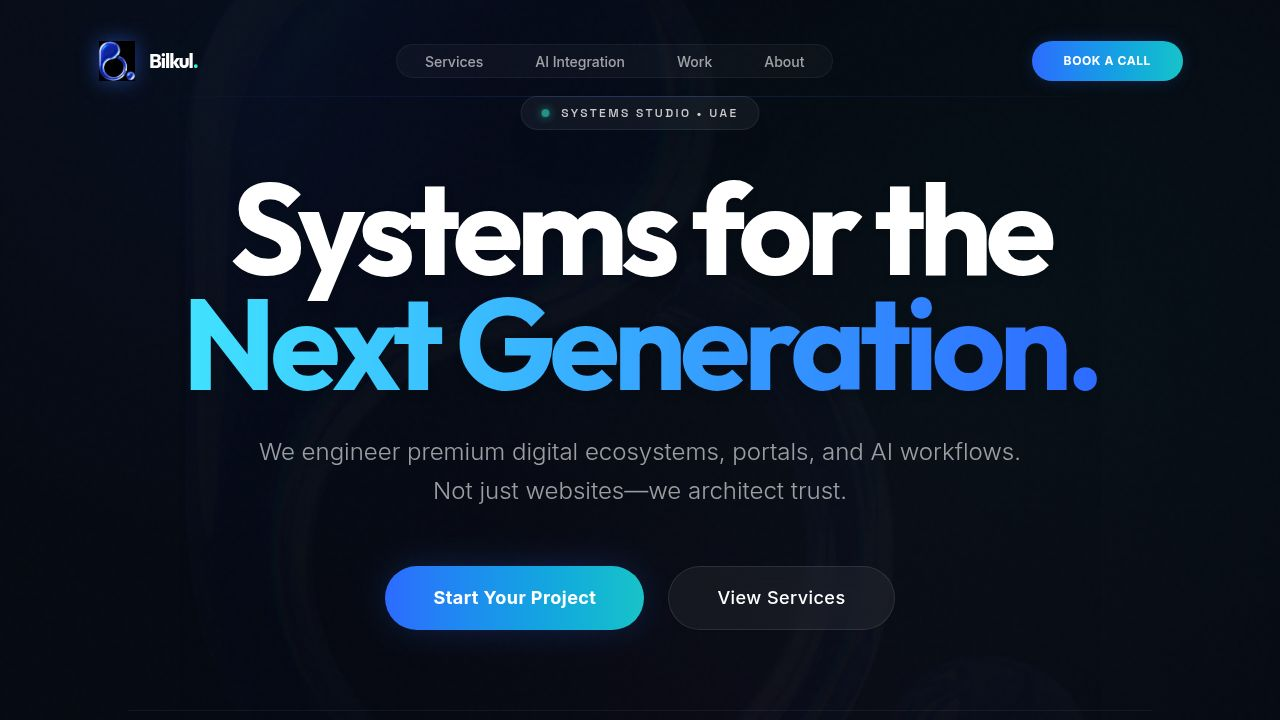
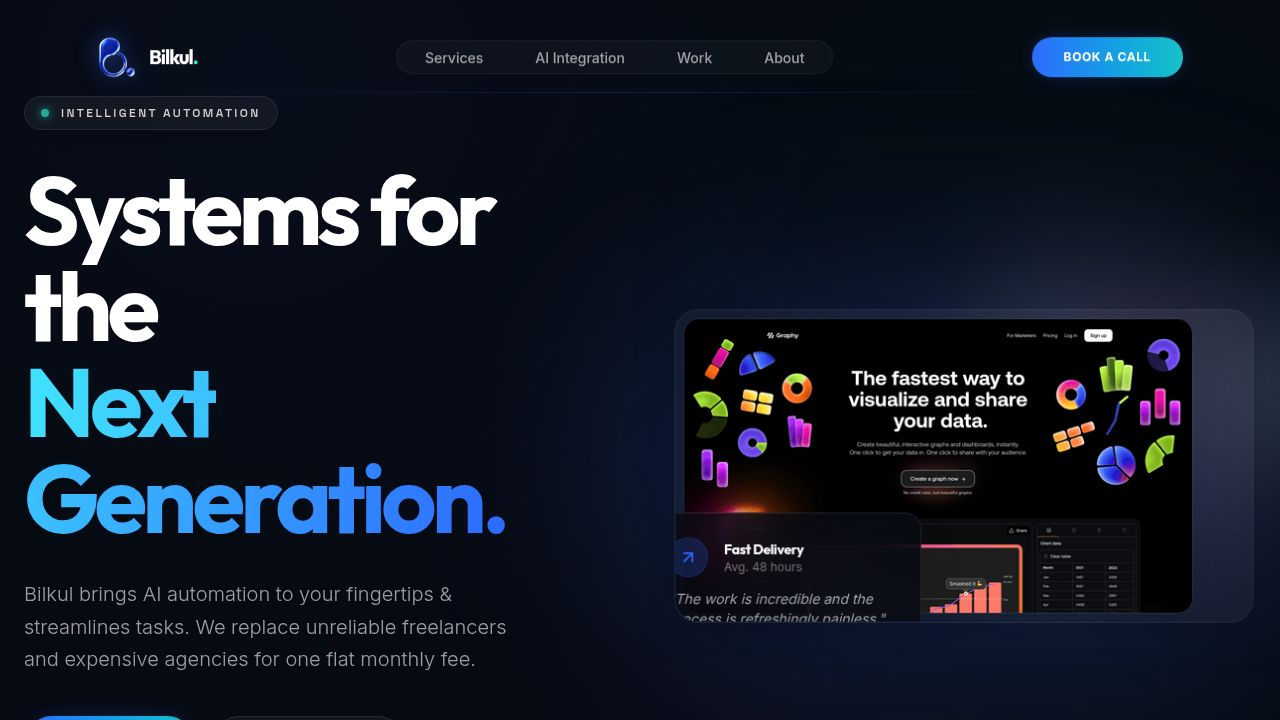
Update website visuals and featured work with new assets
Integrate new visual assets from Framer, update hero section layout and content, and replace existing project images and details in the FeaturedWork component with new data, including local asset paths.

Replit-Commit-Author: Agent
Replit-Commit-Session-Id: c90beb8e-27fe-4767-9850-a092bd4916d9
Replit-Commit-Checkpoint-Type: full_checkpoint
Replit-Commit-Event-Id: 063b1f93-e79b-4f8b-845e-0c70df3c6730
Replit-Commit-Screenshot-Url: https://storage.googleapis.com/screenshot-production-us-central1/81a523f9-af39-43ec-862f-cd784d61e943/c90beb8e-27fe-4767-9850-a092bd4916d9/UAPplSo
Replit-Helium-Checkpoint-Created: true

diff --git a/client/src/components/sections/Hero.tsx b/client/src/components/sections/Hero.tsx
@@ -1,82 +1,81 @@
-import { MotionButton } from "@/components/ui/motion-button";
 import { Link } from "wouter";
-import { motion } from "framer-motion";
-import { Spotlight } from "@/components/ui/spotlight";
-import { BackgroundBeams } from "@/components/ui/background-beams";
-import { ArrowRight, ShieldCheck, Zap, BarChart } from "lucide-react";
-import { transitions } from "@/lib/motion";
+import { GlassCard } from "@/components/ui/glass-card";
+import { MotionButton } from "@/components/ui/motion-button";
+import { ArrowRight } from "lucide-react";
 
 export function Hero() {
   return (
-    <section className="relative min-h-[95vh] flex items-center justify-center pt-24 overflow-hidden">
+    <section className="relative min-h-[90vh] flex items-center justify-center pt-24 overflow-hidden">
       {/* Aurora Gradient Background */}
-      <div className="absolute inset-0 aurora-bg opacity-40 pointer-events-none" />
+      <div className="absolute inset-0 aurora-bg opacity-30 pointer-events-none" />
       
       {/* Texture Overlay */}
-      <div className="absolute inset-0 z-0 opacity-30 pointer-events-none noise-bg mix-blend-overlay" />
-      <div className="absolute inset-0 grid-bg opacity-10 pointer-events-none mask-gradient-b" />
+      <div className="absolute inset-0 z-0 opacity-20 pointer-events-none noise-bg mix-blend-overlay" />
       
-      <BackgroundBeams className="opacity-40" />
-      
-      {/* Watermark Logo (Very subtle) */}
-      <div className="absolute top-1/2 left-1/2 -translate-x-1/2 -translate-y-1/2 w-[80vw] h-[80vw] opacity-[0.02] pointer-events-none z-0">
-         <img src="/brand/logo.png" className="w-full h-full object-contain" alt="" />
+      {/* Abstract 3D Element from Framer */}
+      <div className="absolute right-[-10%] top-[20%] w-[50%] h-[50%] opacity-40 pointer-events-none blur-3xl animate-pulse-slow">
+         <img src="/assets/framer/abstract-1.png" className="w-full h-full object-contain" alt="" />
       </div>
 
-      <div className="container mx-auto px-6 relative z-20 text-center">
-        <div className="max-w-5xl mx-auto">
-          <motion.div
-            initial="initial"
-            animate="animate"
-            variants={transitions.page}
-          >
-            <motion.div 
-              initial={{ opacity: 0, scale: 0.9 }}
-              animate={{ opacity: 1, scale: 1 }}
-              transition={{ duration: 1, ease: "easeOut" }}
-              className="inline-flex items-center gap-3 px-5 py-2 rounded-full bg-white/[0.05] border border-white/[0.08] text-sm font-medium text-white/80 mb-10 backdrop-blur-md shadow-2xl hover:bg-white/[0.08] transition-colors"
-            >
-              <span className="w-2 h-2 rounded-full bg-[var(--aquamarine)] animate-pulse shadow-[0_0_10px_var(--aquamarine)]" />
-              <span className="text-xs uppercase tracking-[0.2em] font-mono">Systems Studio • UAE</span>
-            </motion.div>
-            
-            <h1 className="text-6xl md:text-7xl lg:text-9xl font-display font-bold tracking-tighter leading-[0.9] mb-8 text-white drop-shadow-lg">
-              Systems for the <br />
-              <span className="text-gradient-primary">Next Generation.</span>
-            </h1>
-            
-            <p className="text-xl md:text-2xl text-white/60 max-w-3xl mx-auto mb-14 leading-relaxed font-light">
-              We engineer premium digital ecosystems, portals, and AI workflows. 
-              <br className="hidden md:block"/> Not just websites—we architect trust.
-            </p>
-            
-            <div className="flex flex-col sm:flex-row gap-6 justify-center items-center mb-20">
-              <Link href="/contact">
-                <MotionButton size="lg" className="h-16 px-12 text-lg rounded-full font-bold shadow-[0_0_40px_-10px_rgba(45,107,255,0.4)]">
-                  Start Your Project
-                </MotionButton>
-              </Link>
-              <Link href="/services">
-                <MotionButton variant="outline" size="lg" className="h-16 px-12 text-lg rounded-full border-white/10 hover:bg-white/5 backdrop-blur-md font-medium text-white">
-                  View Services
-                </MotionButton>
-              </Link>
+      <div className="container mx-auto px-6 relative z-20">
+        <div className="grid lg:grid-cols-2 gap-16 items-center">
+            <div className="text-left">
+                <div 
+                className="inline-flex items-center gap-3 px-4 py-2 rounded-full bg-white/[0.05] border border-white/[0.08] text-sm font-medium text-white/80 mb-8 backdrop-blur-md shadow-lg"
+                >
+                <span className="w-2 h-2 rounded-full bg-[var(--aquamarine)] animate-pulse shadow-[0_0_10px_var(--aquamarine)]" />
+                <span className="text-xs uppercase tracking-[0.2em] font-mono">Intelligent Automation</span>
+                </div>
+                
+                <h1 className="text-5xl md:text-7xl lg:text-8xl font-display font-bold tracking-tighter leading-[1] mb-8 text-white">
+                Systems for the <br />
+                <span className="text-gradient-primary">Next Generation.</span>
+                </h1>
+                
+                <p className="text-xl text-white/60 max-w-lg mb-10 leading-relaxed font-light">
+                Bilkul brings AI automation to your fingertips & streamlines tasks. We replace unreliable freelancers and expensive agencies for one flat monthly fee.
+                </p>
+                
+                <div className="flex flex-col sm:flex-row gap-4 mb-16">
+                <Link href="/contact">
+                    <MotionButton size="lg" className="h-14 px-10 text-base rounded-full font-bold shadow-[0_0_30px_-10px_rgba(45,107,255,0.4)]">
+                    Book a Call
+                    </MotionButton>
+                </Link>
+                <Link href="/services">
+                    <MotionButton variant="outline" size="lg" className="h-14 px-10 text-base rounded-full border-white/10 hover:bg-white/5 backdrop-blur-md font-medium text-white">
+                    View Services
+                    </MotionButton>
+                </Link>
+                </div>
             </div>
 
-            {/* Proof Layer */}
-            <div className="flex flex-wrap justify-center gap-8 md:gap-16 border-t border-white/[0.05] pt-10">
-               {[
-                 { icon: ShieldCheck, text: "Security-First" },
-                 { icon: Zap, text: "High Performance" },
-                 { icon: BarChart, text: "Data-Driven" }
-               ].map((item, i) => (
-                 <div key={i} className="flex items-center gap-3 text-sm font-mono uppercase tracking-wider text-white/40">
-                    <item.icon size={16} className="text-[var(--rare-blue)]" />
-                    {item.text}
-                 </div>
-               ))}
+            <div className="relative hidden lg:block">
+                <GlassCard className="relative z-10 bg-white/[0.01] border-white/10 p-2 rounded-3xl" noPadding spotlight={false}>
+                    <img 
+                        src="/assets/framer/work-1.png" 
+                        alt="Dashboard Preview" 
+                        className="rounded-2xl shadow-2xl border border-white/5"
+                    />
+                    
+                    {/* Floating Badge */}
+                    <div className="absolute -bottom-10 -left-10 bg-[#060A12]/80 backdrop-blur-xl border border-white/10 p-6 rounded-2xl shadow-2xl max-w-[280px]">
+                        <div className="flex items-center gap-4 mb-3">
+                             <div className="w-10 h-10 rounded-full bg-[var(--rare-blue)]/20 flex items-center justify-center text-[var(--rare-blue)] border border-[var(--rare-blue)]/20">
+                                <ArrowRight size={20} className="-rotate-45" />
+                             </div>
+                             <div>
+                                <h4 className="text-white font-bold text-sm">Fast Delivery</h4>
+                                <p className="text-white/40 text-xs">Avg. 48 hours</p>
+                             </div>
+                        </div>
+                        <p className="text-white/60 text-sm italic">"The work is incredible and the process is refreshingly painless."</p>
+                    </div>
+                </GlassCard>
+                
+                {/* Background Glow */}
+                <div className="absolute top-1/2 left-1/2 -translate-x-1/2 -translate-y-1/2 w-[120%] h-[120%] bg-[var(--rare-blue)]/20 blur-[100px] -z-10 rounded-full pointer-events-none" />
             </div>
-          </motion.div>
         </div>
       </div>
     </section>

diff --git a/client/src/components/sections/FeaturedWork.tsx b/client/src/components/sections/FeaturedWork.tsx
@@ -7,25 +7,32 @@ import { transitions } from "@/lib/motion";
 
 const projects = [
   {
-    title: "Dubai Future Foundation",
-    category: "System Design",
-    image: "https://images.unsplash.com/photo-1486406146926-c627a92ad1ab?q=80&w=2070&auto=format&fit=crop",
-    tags: ["Portal", "Next.js", "Design System"],
-    summary: "A unified digital gateway for Dubai's innovation ecosystem."
+    title: "Modern SaaS Dashboard",
+    category: "Product Design",
+    image: "/assets/framer/work-1.png",
+    tags: ["UI/UX", "SaaS", "Dashboard"],
+    summary: "A clean, data-rich interface for modern analytics platforms."
   },
   {
-    title: "Emaar Lifestyle App",
-    category: "Mobile Experience",
-    image: "https://images.unsplash.com/photo-1512453979798-5ea904ac6605?q=80&w=2070&auto=format&fit=crop",
-    tags: ["App", "React Native", "UX Strategy"],
-    summary: "Reimagining luxury living through a seamless mobile concierge."
+    title: "E-Commerce Experience",
+    category: "Web Design",
+    image: "/assets/framer/work-2.png",
+    tags: ["E-Commerce", "Branding", "Conversion"],
+    summary: "High-conversion product pages with immersive storytelling."
   },
   {
-    title: "Abu Dhabi Finance AI",
-    category: "Fintech Integration",
-    image: "https://images.unsplash.com/photo-1551288049-bebda4e38f71?q=80&w=2070&auto=format&fit=crop",
-    tags: ["AI", "Dashboard", "Data Viz"],
-    summary: "Real-time predictive analytics for institutional investors."
+    title: "Fintech Mobile App",
+    category: "App Design",
+    image: "/assets/framer/work-3.png",
+    tags: ["Mobile", "Fintech", "iOS"],
+    summary: "Secure and intuitive mobile banking experience."
+  },
+  {
+    title: "Corporate Identity",
+    category: "Branding",
+    image: "/assets/framer/work-4.png",
+    tags: ["Identity", "Strategy", "Web"],
+    summary: "Rebranding a legacy enterprise for the digital age."
   }
 ];
 
@@ -41,12 +48,14 @@ export function FeaturedWork() {
            className="flex flex-col md:flex-row justify-between items-end mb-16 gap-6"
         >
           <div>
-            <span className="text-primary font-mono text-xs tracking-[0.2em] uppercase mb-4 block">Case Studies</span>
-            <h2 className="text-5xl md:text-7xl font-display font-bold mb-4 tracking-tight">Selected Work</h2>
-            <p className="text-muted-foreground text-xl max-w-xl font-light">Digital systems engineered for impact in the MENA region.</p>
+            <span className="text-[var(--aquamarine)] font-mono text-xs tracking-[0.2em] uppercase mb-4 block">Selected Work</span>
+            <h2 className="text-5xl md:text-7xl font-display font-bold mb-4 tracking-tight text-white">Our Portfolio</h2>
+            <p className="text-white/60 text-xl max-w-xl font-light">
+              Award-winning designs that drive real business results.
+            </p>
           </div>
           <Link href="/work">
-            <MotionButton variant="outline" className="hidden md:flex rounded-full px-8 border-white/10 hover:bg-white/5">
+            <MotionButton variant="outline" className="hidden md:flex rounded-full px-8 border-white/10 hover:bg-white/5 text-white">
               View All Projects
             </MotionButton>
           </Link>
@@ -57,7 +66,7 @@ export function FeaturedWork() {
             initial="hidden"
             whileInView="show"
             viewport={{ once: true }}
-            className="grid md:grid-cols-2 lg:grid-cols-3 gap-8"
+            className="grid md:grid-cols-2 gap-8"
         >
           {projects.map((project, index) => (
             <motion.div key={index} variants={transitions.stagger.item as any}>
@@ -65,38 +74,36 @@ export function FeaturedWork() {
                 hoverEffect 
                 spotlight
                 noPadding
-                className="group cursor-pointer h-[550px] flex flex-col border-white/5 bg-white/[0.02]"
+                className="group cursor-pointer h-[500px] flex flex-col border-white/5 bg-white/[0.02] overflow-hidden"
                 >
-                <div className="relative h-2/3 overflow-hidden">
-                    <div className="absolute inset-0 bg-gradient-to-t from-[#0a0a0a] via-transparent to-transparent z-10 opacity-80" />
+                <div className="relative h-full overflow-hidden">
+                    <div className="absolute inset-0 bg-gradient-to-t from-[#0a0a0a] via-transparent to-transparent z-10 opacity-60 transition-opacity group-hover:opacity-40" />
                     <motion.img 
                     whileHover={{ scale: 1.05 }}
                     transition={{ duration: 0.7, ease: "easeOut" }}
                     src={project.image} 
                     alt={project.title} 
-                    className="w-full h-full object-cover"
+                    className="w-full h-full object-cover object-top"
                     />
                     <div className="absolute top-6 left-6 z-20">
                         <span className="bg-black/40 backdrop-blur-md px-3 py-1 rounded-full text-xs font-mono uppercase tracking-wider border border-white/10 text-white">
                             {project.category}
                         </span>
                     </div>
-                </div>
-                
-                <div className="p-8 flex flex-col flex-grow justify-between bg-white/[0.01] border-t border-white/5 relative z-20">
-                    <div>
-                    <h3 className="text-2xl font-bold mb-3 flex items-center gap-2 text-white group-hover:text-primary transition-colors">
-                        {project.title}
-                        <ArrowUpRight size={24} className="opacity-0 -translate-y-2 translate-x-2 group-hover:opacity-100 group-hover:translate-y-0 group-hover:translate-x-0 transition-all duration-300 text-primary" />
-                    </h3>
-                    <p className="text-muted-foreground mb-6 line-clamp-2">{project.summary}</p>
-                    <div className="flex gap-2 flex-wrap">
-                        {project.tags.map(tag => (
-                        <span key={tag} className="text-xs text-muted-foreground bg-white/5 px-3 py-1.5 rounded-full border border-white/5 group-hover:border-white/20 transition-colors">
-                            {tag}
-                        </span>
-                        ))}
-                    </div>
+                    
+                    <div className="absolute bottom-0 left-0 right-0 p-8 z-20 translate-y-4 group-hover:translate-y-0 transition-transform duration-500">
+                        <h3 className="text-3xl font-bold mb-2 flex items-center gap-2 text-white group-hover:text-[var(--aquamarine)] transition-colors">
+                            {project.title}
+                            <ArrowUpRight size={24} className="opacity-0 -translate-x-2 group-hover:opacity-100 group-hover:translate-x-0 transition-all duration-300 text-[var(--aquamarine)]" />
+                        </h3>
+                        <p className="text-white/70 mb-4 opacity-0 group-hover:opacity-100 transition-opacity duration-500 delay-100">{project.summary}</p>
+                        <div className="flex gap-2 flex-wrap opacity-0 group-hover:opacity-100 transition-opacity duration-500 delay-200">
+                            {project.tags.map(tag => (
+                            <span key={tag} className="text-xs text-white/60 bg-white/10 px-3 py-1.5 rounded-full border border-white/5">
+                                {tag}
+                            </span>
+                            ))}
+                        </div>
                     </div>
                 </div>
                 </GlassCard>
@@ -106,7 +113,7 @@ export function FeaturedWork() {
         
         <div className="mt-12 md:hidden">
           <Link href="/work">
-            <MotionButton variant="outline" className="w-full rounded-full h-12">
+            <MotionButton variant="outline" className="w-full rounded-full h-12 text-white border-white/10">
               View All Projects
             </MotionButton>
           </Link>
